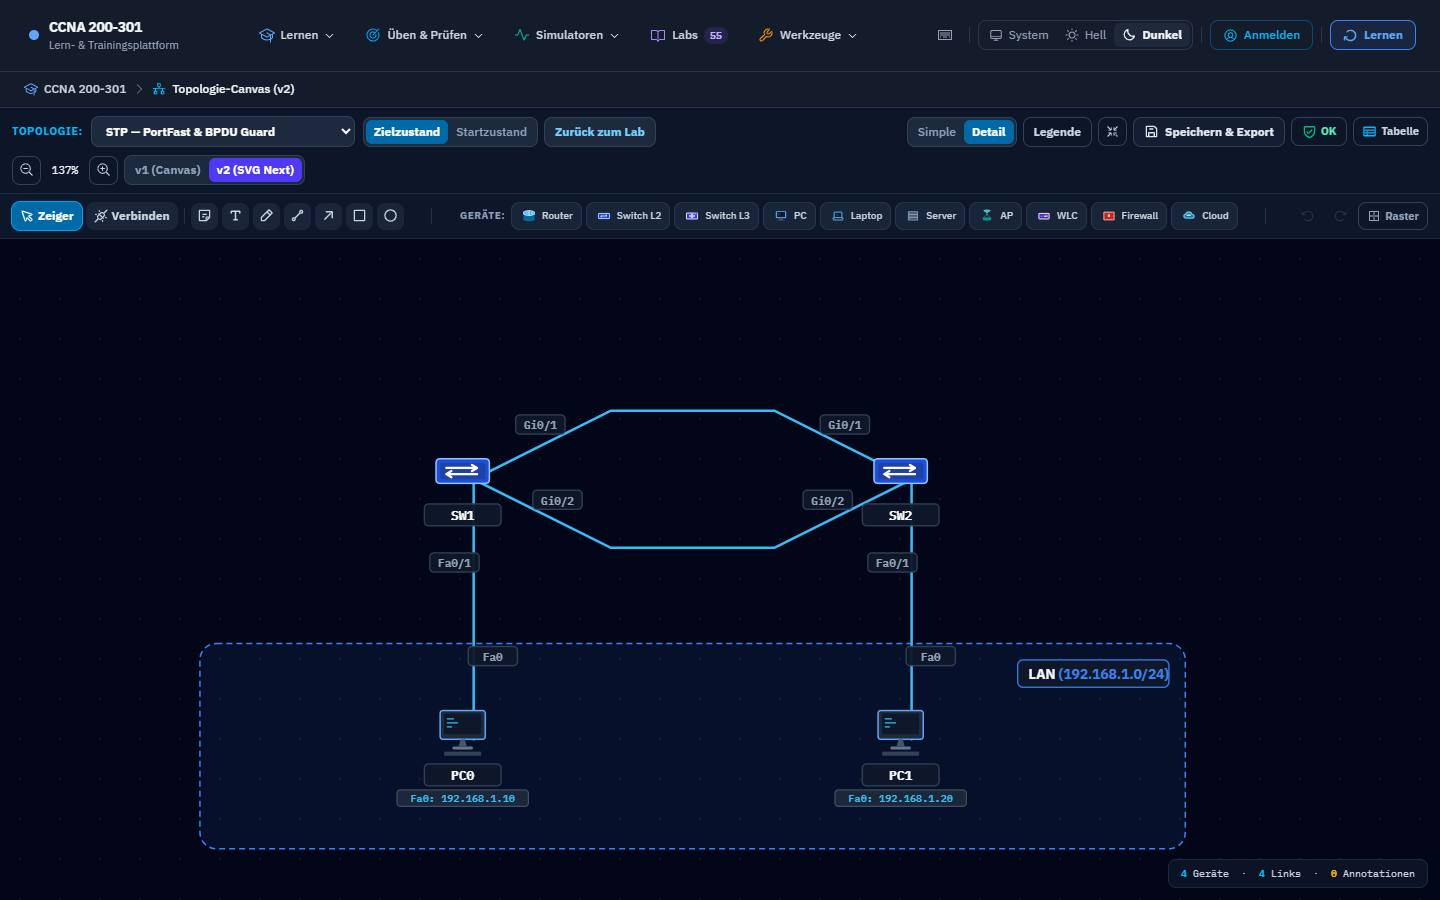
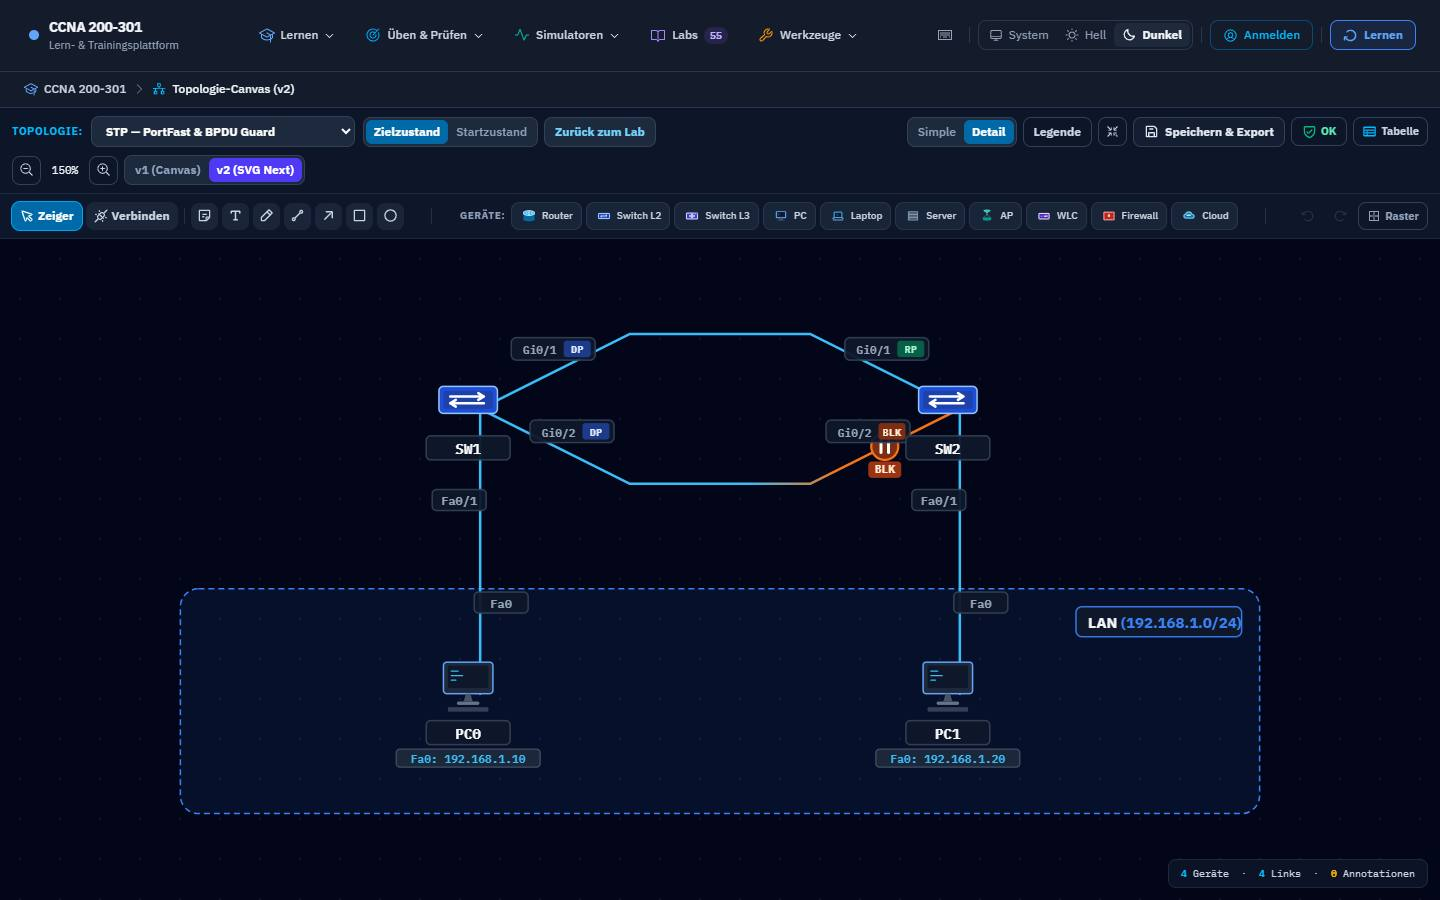
feat(labs): package 1 report, label text proposals, screenshots, stp roles in canvas

diff --git a/src/components/labs/lab-to-network.ts b/src/components/labs/lab-to-network.ts
@@ -17,6 +17,7 @@ import {
 } from "@/lib/topology/hardware-profiles";
 import type { LabScenario, LabTopologyData, LabTopologyDevice } from "./types";
 import { placeZoneBadge } from "./topology-geometry";
+import { computeStp } from "@/lib/topology/stp-calc";
 
 // ============================================================================
 // Lab-Topologie -> Netzwerk-Topologie (Canvas v2).
@@ -466,6 +467,25 @@ export function buildNetworkTopologyFromLab(
       labState: state,
     },
   };
+  // Spanning-Tree-Rollen anzeigen, wenn das Lab spanning-tree konfiguriert (Root-Wahl, Alternate-Port)
+  if (state === "target" && devices.some((d) => /^\s*spanning-tree/m.test(d.config?.labCli ?? ""))) {
+    const stp = computeStp(topology);
+    const roleOf = { Root: "RP", Desg: "DP", Altn: "BLK" } as const;
+    for (const bridge of stp.values()) {
+      for (const p of bridge.ports) {
+        const linked = links.some((l) => l.sourceInterfaceId === p.iface.id || l.targetInterfaceId === p.iface.id);
+        if (linked && links.some((l) => (l.sourceInterfaceId === p.iface.id || l.targetInterfaceId === p.iface.id) && stp.has(l.sourceDeviceId) && stp.has(l.targetDeviceId))) {
+          p.iface.portRole = roleOf[p.role];
+        }
+      }
+    }
+    for (const l of links) {
+      const ends = [l.sourceInterfaceId, l.targetInterfaceId];
+      const blocked = devices.some((d) => d.interfaces.some((i) => ends.includes(i.id) && i.portRole === "BLK"));
+      if (blocked) l.status = "stp-blocking";
+    }
+  }
+
   return { topology, problems };
 }
 

diff --git a/src/__tests__/components/lab-topologies-network.test.ts b/src/__tests__/components/lab-topologies-network.test.ts
@@ -195,6 +195,19 @@ describe("Lab stp: Spanning-Tree-Ergebnis folgt aus dem Lab (priority 4096 auf S
     expect(sw1.ports.every((p) => p.role === "Desg" && p.state === "FWD")).toBe(true);
   });
 
+  it("Rollen werden im Canvas angezeigt: SW2 Gi0/1 RP, Gi0/2 BLK, blockierter Link markiert", () => {
+    const sw2 = topology.devices.find((d) => d.id === "sw2")!;
+    expect(sw2.interfaces.find((i) => i.name === "Gi0/1")!.portRole).toBe("RP");
+    expect(sw2.interfaces.find((i) => i.name === "Gi0/2")!.portRole).toBe("BLK");
+    expect(topology.links.find((l) => l.id === "link-sw1-sw2-2")!.status).toBe("stp-blocking");
+    expect(topology.links.find((l) => l.id === "link-sw1-sw2-1")!.status).toBe("up");
+  });
+
+  it("andere Labs ohne spanning-tree-Konfiguration zeigen keine Rollen", () => {
+    const t = buildNetworkTopologyFromLab(lab("vtp-dtp"), CURATED_TOPOLOGIES["vtp-dtp"], "target").topology;
+    expect(t.devices.flatMap((d) => d.interfaces).some((i) => i.portRole)).toBe(false);
+  });
+
   it("SW2: Gi0/1 Root-Port, Gi0/2 Alternate/Blocking (Loop aufgelöst)", () => {
     const sw2 = stp.get("sw2")!;
     const byName = Object.fromEntries(sw2.ports.map((p) => [p.iface.name, `${p.role}/${p.state}`]));

diff --git a/src/components/canvas-v2/LinkRenderer.tsx b/src/components/canvas-v2/LinkRenderer.tsx
@@ -421,7 +421,7 @@ export const LinkRenderer: React.FC<LinkRendererProps> = ({
 
       {/* 3. STP-Blocking: Querbalken-Marker am Zielport */}
       {isStpBlocking && (
-        <g transform={`translate(${x2 - ux * 28}, ${y2 - uy * 28})`}>
+        <g transform={`translate(${x2 - tgtDirX * (hasBends ? 56 : 28)}, ${y2 - tgtDirY * (hasBends ? 56 : 28)})`}>
           {/* Blocking Querbalken || */}
           <circle cx="0" cy="0" r="9" fill="#7C2D12" stroke="#F97316" strokeWidth="1.5" />
           <line x1="-2.5" y1="-4" x2="-2.5" y2="4" stroke="#FFF" strokeWidth="2" strokeLinecap="round" />

diff --git a/src/components/canvas-v2/SvgTopologyRenderer.tsx b/src/components/canvas-v2/SvgTopologyRenderer.tsx
@@ -425,7 +425,8 @@ export const SvgTopologyRenderer: React.FC<SvgTopologyRendererProps> = ({
                 fontWeight="bold"
                 fontFamily="'IBM Plex Sans', sans-serif"
               >
-                {zone.name} <tspan fill={zone.color}>({zone.cidr})</tspan>
+                {zone.name}
+                {zone.cidr && <tspan fill={zone.color}> ({zone.cidr})</tspan>}
               </text>
             </g>
           </g>

diff --git a/docs/lab-topologien/BERICHT-PAKET-1.md b/docs/lab-topologien/BERICHT-PAKET-1.md
@@ -1,0 +1,88 @@
+# Lab-Topologien — Paket 1 (Layer 2): Bericht
+
+Branch `feature/lab-topologies` (von `main` @ `53875eb`). Nicht gepusht, nicht gemergt.
+Neue Topologien: **stp, vtp-dtp, etherchannel, ivr-svi**. Die vier Piloten (basic-ip, vlan-trunking, roas, ospf) laufen auf demselben Fundament.
+Lint 0 Fehler (48 Warnungen wie vorher), **681 Tests in 53 Dateien grün** (vorher 543 / 51), Build grün.
+
+## 1. Was neu ist (Fundament, gilt für alle späteren Pakete)
+
+| Baustein | Datei | Inhalt |
+|---|---|---|
+| Hardware-Profile | `src/lib/topology/hardware-profiles.ts` | 2911 mit HWIC-2T (`Gi0/0–0/2`, `Se0/0/0`, `Se0/0/1`), 2960-24TT, **3560-24PS** (Fa0/1–24, Gi0/1–2), 3650-24PS, PC-PT/Server-PT (`Fa0`). Die Standard-Interfaces neuer Router im Canvas heißen jetzt `Se0/0/0`/`Se0/0/1` (vorher `Se0/1/x`); Doku angepasst |
+| Topologie-Dateien | `src/components/labs/topologies/` | je Kategorie eine Datei (`layer2.ts`, `routing.ts`, `layer2-switching.ts`) plus `builders.ts`. `curated-topologies.ts` führt sie zusammen. Die Pilot-Daten sind unverändert verschoben (JSON-Vergleich vorher/nachher identisch), danach aber bewusst angepasst (Abschnitt 5) |
+| Konverter | `src/components/labs/lab-to-network.ts` | Lab → Netzwerk-Topologie (Canvas v2). Konfiguration wird **nur** aus den Befehlen des Labs gelesen (Hostname, VLANs, Access/Trunk, Channel-Groups, SVIs, `ip routing`, OSPF, STP-Priorität, Desktop-IPs). Zielzustand und Startzustand (ohne Konfiguration). Ungelesenes landet in `problems` |
+| CLI-Export | `getLabDeviceCli` | pro Router/Switch nur Befehle, ohne Prompt. Im Lab-Dialog (Kopieren / .txt je Gerät) und im Canvas-Inspektor |
+| Canvas-Integration | `LabScenariosDialog`, `CanvasV2Container`, `App.tsx` | Button „Topologie im Canvas öffnen“ im Lab; im Canvas Gruppe **„Unterrichts-Labs“** im Topologie-Menü, Umschalter **Zielzustand / Startzustand**, **„Zurück zum Lab“**. Lädt als neue Vorlage, überschreibt keine gespeicherten Topologien und ändert die gespeicherte Engine-Einstellung nicht |
+| Linienführung | `TopologyLink.bendPoints`, `LinkRenderer` | parallele Verbindungen (Loop, Bundle) mit Zwischenpunkten; Labels und STP-Marker folgen der Linie |
+| Zonen | `placeZoneBadge` | Zonen-Titel steht in der Ecke, in der er weder Linien noch Labels noch Geräte berührt (Lab-Diagramm und Canvas) |
+| STP im Canvas | Konverter | wenn das Lab `spanning-tree` konfiguriert: Port-Rollen RP/DP/BLK an den Links, blockierter Link markiert (berechnet aus Priorität/MAC/Kosten, siehe `stp-calc.ts`) |
+| Tests | `lab-topologies-network.test.ts`, `lab-topology-quality.test.ts`, `lab-topology-matches-lab-text.test.ts` | datengetrieben über **alle** Einträge in `CURATED_TOPOLOGIES`; neue Labs werden automatisch erfasst |
+| Screenshots | `scripts/e2e/lab-topology-screenshots.mjs` | Dark/Light × 1440/390 px × Detail/Simple, im Lab-Dialog und im Canvas; prüft außerdem Laden der Vorlage, Startzustand und den Rücksprung |
+
+### Was der Test je Lab prüft
+
+1. Schema gültig (`networkTopologySchema`), Kategorie `teaching-labs`, `labId`/`labState` gesetzt.
+2. Alle Interfaces (Links, Adressierungstabelle, Konfiguration) existieren im Hardware-Profil; kein Interface doppelt belegt.
+3. Jede Zeile der Verbindungsliste des Labs (`A Port ↔ B Port`, Ketten mit `→`) entspricht einem Link mit denselben Ports. Bekannte Widersprüche stehen in einer Ausnahmeliste (derzeit nur die zwei ospf-Zeilen).
+4. Jede IP/Maske der Adressierungstabelle stimmt mit den Befehlen überein (`ip address` bzw. Desktop-Konfiguration inkl. Gateway).
+5. Validierung (`validateTopology`) liefert genau die erwarteten Meldungen (derzeit überall keine).
+6. Startzustand: dieselben Geräte/Links, keine IPs, keine VLANs.
+7. CLI-Export: nicht leer, kein Prompt, identisch mit `config.labCli`.
+8. **Keine erfundenen IPs** in allen `show`-Ausgaben des Generators (jede IP muss zu einem Interface, einem Netz, einer Maske, einem Gateway oder einer im Lab konfigurierten Router-ID gehören); `show vlan brief` nennt nur VLANs des Labs.
+9. Layout: 0 überlappende Bounding-Boxes (Icons, Gerätenamen, Port-Labels, Subnetz-Labels), 0 sich kreuzende Linien, Tier-Ausrichtung, **10-px-Raster**, **Zonen-Titel liegen in der Zone und überdecken nichts**.
+10. Spezifisch: stp (Root SW1 mit Priorität 4096, SW2 Gi0/1 Root-Port, Gi0/2 Alternate), etherchannel (Po1 LACP, `show etherchannel summary`), ivr-svi (SVIs, `ip routing`, Routen), vtp-dtp (VLAN-Datenbank nur auf dem Server), ospf (DR/BDR aus der Konfiguration).
+
+## 2. Die vier Labs
+
+| Lab | Geräte | Links | Modell/Profil | Besonderheit |
+|---|---|---|---|---|
+| stp | 4 (2 SW, 2 PC) | 4 | 2960-24TT | zwei parallele Gi-Links (Loop), Root SW1 |
+| vtp-dtp | 5 (3 SW, 2 PC) | 4 | 2960-24TT | Trunks, VLAN 10 VERWALTUNG/20 TECHNIK, VTP-Rollen im Modelltext |
+| etherchannel | 4 | 4 | 2960-24TT | Fa0/1–2 als Port-channel 1 (LACP active), PCs an Fa0/3 |
+| ivr-svi | 3 (MLS1, 2 PC) | 2 | **3650-24PS** | SVIs `Vlan10`/`Vlan20` |
+
+## 3. Selbstprüfung je Lab (was noch nicht gut aussieht)
+
+**stp.** Gut: Schleife als symmetrisches Sechseck, Rollen im Canvas gut lesbar (SW1 DP/DP, SW2 RP/BLK, blockierter Link orange). Schwach: im Lab-Dialog ist das Diagramm bei 1440 px nur etwa 490 px breit, Port-Labels sind dort ca. 6 px hoch (gilt für alle Labs inkl. Pilot-Labs, Layout der Dialogspalte ist nicht Teil dieses Auftrags). „Root“ steht nur im Modelltext, nicht als eigenes Zeichen. Im Canvas steht das Modell nicht am Gerät.
+
+**vtp-dtp.** Gut: Kette mit Trunk-Labels, zwei VLAN-Zonen mit Netzadresse. Schwach: VLAN 20 TECHNIK steht nur in der Legende (kein Port im Lab). VTP-Rollen (Server/Client) sieht man nur im Lab-Diagramm. **Lab-Fehler:** `desirable` ↔ `trunk nonegotiate` (siehe Korrekturvorschläge), im Zielzustand zeigt SW1 deshalb keinen Trunk auf Gi0/1.
+
+**etherchannel.** Gut: gebündelte Links mit Beschriftung „Port-channel 1 · LACP active“, `show etherchannel summary` korrekt (`Po1(SU)`, beide `(P)`). Schwach: im Canvas fehlt die Port-channel-Beschriftung, die Zwischenpunkt-Linien ersetzen dort das Bündel-Symbol (Ellipse). Beide Links sind grün (EtherChannel), aber ohne Hinweis auf die Gruppe.
+
+**ivr-svi.** Gut: Dreiecksform, zwei VLAN-Zonen, SVIs in der Tabelle und im Canvas-Inspektor. Schwach: Die SVIs sind im Diagramm nicht am Gerät gezeichnet. Modell: Lab sagt „z. B. 3560“, die Ports sagen 3650 → Topologie folgt den Ports.
+
+**Alle.** Die Diagramme im Lab-Dialog sind klein (siehe oben). Im Canvas auf 390 px passt die Topologie, aber die Schrift ist dort sehr klein (Pinch-Zoom nötig).
+
+## 4. Gefundene Fehler und Korrekturen am Rand
+
+| Fund | Korrektur |
+|---|---|
+| Lab-Dialog bei 390 px: Detailbereich 481 px breit, Inhalt rechts abgeschnitten (auch bei den Piloten) | Detailbereich ohne Radix-ScrollArea (dessen innerer `display:table`-Wrapper breitete sich aus), Grid-Spalten `min-w-0` |
+| Canvas: `fitView` ignorierte Zonen und lief mit veralteter Container-Größe | Zonen eingerechnet; Einpassen nach dem Laden |
+| Canvas: Toolbar lief bei 390 px über | Auswahlzeile umbrechbar |
+| Canvas: Zonen-Titel zeigte leere Klammern `()` ohne Netzadresse | nur mit Adresse |
+
+## 5. Änderungen an den Piloten (inhaltlich unverändert, Layout angepasst)
+
+Meine neuen Prüfungen (10-px-Raster, Zonen-Titel) schlugen bei den Piloten an. Das Pilot-Layout hatte also Verstöße, die der bisherige Test nicht erfasste. Angepasst wurde **nur Gestaltung**:
+
+- Alle Koordinaten (Geräte, Zwischenpunkte, Zonen, Label-Positionen) auf das 10-px-Raster gerundet (z. B. `y: 65` → `70`).
+- vlan-trunking: Zonen-Titel gekürzt (`VLAN 10 · SALES · PC0 192.168.10.10` → `VLAN 10 · SALES`; die IPs stehen in der Tabelle). Die Titel waren breiter (268 px) als die Zonen (160 px).
+- ospf: LAN-Zonen breiter/höher (Titel passten nicht hinein), `viewBox` von 560 auf 620 Höhe.
+
+Adressen, Ports, Geräte, VLANs und Lab-Inhalte sind unverändert; alle bestehenden Pilot-Tests laufen.
+
+## 6. Screenshots
+
+`docs/lab-topologien/screenshots/<lab>/` — je Lab 17 Bilder (JPEG, ca. 4–6 MB insgesamt für vier Labs):
+`lab-{dark,light}-{1440,390}-{detail,simple}.jpg`, `canvas-{dark,light}-{1440,390}-{detail,simple}.jpg`, `canvas-dark-1440-startzustand.jpg`.
+Enthalten sind die vier neuen Labs und zur Regression die vier Piloten. Der Lauf prüft zusätzlich: Vorlage lädt (`lab:<id>`), Startzustand umschaltbar, „Zurück zum Lab“ öffnet das Lab. Ergebnis: 50 von 50.
+
+Selbst angesehen habe ich: stp (Canvas dark 1440/390, Lab dark 1440), vtp-dtp (Canvas dark/light, Lab dark/light 390), etherchannel (Canvas dark 1440), ivr-svi (Lab light 1440), ospf (Canvas dark 1440), vlan-trunking (Lab dark 1440). Die übrigen Bilder sind vom Skript erzeugt, aber nicht einzeln begutachtet.
+
+## 7. Offen / Entscheidungen
+
+1. Lab-Text-Korrekturen: `KORREKTURVORSCHLAEGE-LABTEXT.md` (Datei, Stelle, alt, neu). Besonders vtp-dtp (DTP) und ivr-svi (Modell).
+2. Das Diagramm im Lab-Dialog ist bei 1440 px klein. Vorschlag (nicht umgesetzt): die Topologie-Spalte breiter machen oder einen Vollbild/Zoom-Button ergänzen.
+3. Der Canvas zeigt keine Modelltexte (VTP-Rolle, „Root“). Vorschlag: Gerätenotiz aus `model` als zweite Zeile unter dem Namen.
+4. Paket 2 (Routing, 9 Labs + 2 Drills) wartet auf dein OK.

diff --git a/docs/lab-topologien/KORREKTURVORSCHLAEGE-LABTEXT.md b/docs/lab-topologien/KORREKTURVORSCHLAEGE-LABTEXT.md
@@ -1,0 +1,52 @@
+# Korrekturvorschläge für Lab-Texte (nur Vorschläge, nichts umgesetzt)
+
+Du entscheidest und änderst die Lab-Texte selbst oder gibst einzelne Änderungen frei. Zeilennummern beziehen sich auf den Stand von `feature/lab-topologies` (`src/components/labs/`). „Alt“ ist der heutige Text, „Neu“ ein Vorschlag. Ports und Adressen im neuen Text sind **Vorschläge von mir**, weil das Lab sie nicht nennt — bitte prüfen.
+
+## 1. dhcp-relay — services.tsx
+
+| Stelle | Alt | Neu | Begründung |
+|---|---|---|---|
+| Zeile 254 (`topology.devices`) | `{ type: "pc", label: "Clients Rot/Blau/Gelb", count: 3 }` | `{ type: "pc", label: "Client Rot / Client Blau", count: 2 }` | Konfiguriert und in den Schritten verwendet werden nur `Client Rot` und `Client Blau`. „Gelb“ ist das Server-VLAN 71 (`name Gelb`), kein Client. |
+| Zeile 260 (`connections`) | `"Client-Rot → SW1 Fa0/1 (VLAN 51) · Client-Blau → SW1 Fa0/11 (VLAN 61)"` | unverändert, falls beide Clients an SW1 hängen. Wenn Clients an SW2 gedacht sind: zusätzlich `"Client-Rot (2. Standort) → SW2 Fa0/1 (VLAN 51)"` | SW2 konfiguriert `Fa0/1-10` als VLAN 51 (Zeile 349), aber kein Gerät nennt einen Anschluss an SW2. Entweder SW2-Ports streichen oder ein Gerät ergänzen. |
+
+## 2. co-acl-nat-isp — security.tsx
+
+| Stelle | Alt | Neu | Begründung |
+|---|---|---|---|
+| Zeile 1902 (nach `ISP-SW`) | (fehlt) | `{ type: "switch", label: "SW1 (CO-1 LAN) / SW2 (CO-2 LAN)", count: 2 },` | Die Verbindungszeilen 1911–1912 nennen `SW1` und `SW2`, die Geräteliste nicht. |
+| Zeilen 1899–1901 | `ETH0/0`, `ETH0/1` | beibehalten, aber im `description` ergänzen: „Interface-Namen im Format `Ethernet0/0` (IOL/GNS3-Router), nicht Packet-Tracer-`GigabitEthernet`“ | Die Namen sind nicht Packet-Tracer-Standard. Das Lab-Topologie-Profil „Ethernet“ folgt dem Lab. Wenn das Lab in Packet Tracer gebaut werden soll, müssten Ports umbenannt werden. |
+
+## 3. hsrp — services.tsx
+
+| Stelle | Alt | Neu | Begründung |
+|---|---|---|---|
+| Zeile 1997 (`devices`) | `{ type: "router", label: "R1, R2", count: 2 }, { type: "pc", label: "PC0", count: 1 }` | zusätzlich `{ type: "switch", label: "SW1 (gemeinsames LAN)", count: 1 }` | R1, R2 und PC0 teilen das Segment 192.168.1.0/24; das geht nur über einen Verteiler. |
+| Zeilen 2001–2004 (`connections`) | `"R1 Gi0/0 — 192.168.1.2/24 (HSRP Active, Priority 110)"`, `"R2 Gi0/0 — 192.168.1.3/24 (HSRP Standby, Priority 100)"`, `"PC0 → gemeinsames LAN 192.168.1.0/24"` | `"R1 Gi0/0 (192.168.1.2/24, HSRP Active, Priority 110) ↔ SW1 Fa0/1"`, `"R2 Gi0/0 (192.168.1.3/24, HSRP Standby, Priority 100) ↔ SW1 Fa0/2"`, `"PC0 → SW1 Fa0/3 (192.168.1.0/24)"` | Konkrete Ports als Vorschlag. |
+
+## 4. acl-extended — security.tsx
+
+| Stelle | Alt | Neu | Begründung |
+|---|---|---|---|
+| Zeilen 793–797 | `devices`: R1, `PC0 / PC1` (2), Web-Server; `connections`: `"PC0 / PC1 → R1 Gi0/0"`, `"R1 Gi0/1 → Web-Server"` | zusätzlich `{ type: "switch", label: "SW1 (LAN 192.168.1.0/24)", count: 1 }`; `connections`: `"R1 Gi0/0 ↔ SW1 Gi0/1"`, `"PC0 → SW1 Fa0/1"`, `"PC1 → SW1 Fa0/2"`, `"R1 Gi0/1 → Web-Server (192.168.2.100)"` | Beide PCs liegen in 192.168.1.0/24 (`192.168.1.10`, `.20`) und hängen laut Text am selben Port `Gi0/0`; dafür fehlt der Switch. |
+| Zeile 798 (`hint`) | `"Gleiche Topologie wie Standard-ACL. Extended ACL am Quell-Interface (Gi0/0 in)."` | `"Ähnliche Topologie wie die Standard-ACL, aber beide PCs liegen im selben Subnetz am Switch. Extended ACL am Quell-Interface (Gi0/0 in)."` | Die Standard-ACL hat drei getrennte Router-Ports (Gi0/0, Gi0/1, Gi0/2 mit PC0, PC1, Server), die Extended-ACL zwei. Die Topologien sind nicht gleich. |
+
+## 5. ntp-syslog-snmp — services.tsx
+
+| Stelle | Alt | Neu | Begründung |
+|---|---|---|---|
+| Zeilen 1822–1827 | `devices`: `{ type: "server", label: "NTP, Syslog, SNMP-Manager", count: 3 }`; `connections`: `"SW1 Gi0/1 → Server-VLAN 99 (10.0.0.0/24)"` | zusätzlich `{ type: "switch", label: "SW-Server (Server-VLAN 99)", count: 1 }`; `connections`: `"SW1 Gi0/1 ↔ SW-Server Gi0/1 (VLAN 99, 10.0.0.0/24)"`, `"NTP-Server (10.0.0.10) → SW-Server Fa0/1"`, `"Syslog-Server (10.0.0.20) → SW-Server Fa0/2"`, `"SNMP-Manager (10.0.0.30) → SW-Server Fa0/3"` | Die `description` (Zeile 1823) nennt die drei Server mit Adressen (`.10`, `.20`, `.30`) im Segment 10.0.0.0/24; drei Server an einem Port von SW1 gehen nur über einen Verteiler. Das ist kein Widerspruch, sondern eine fehlende Angabe. |
+
+## 6. aaa-radius-tacacs — kein Widerspruch
+
+Das Lab verortet den RADIUS-Server **nicht** ausdrücklich im Management-Netz: Die Zeile 1713 sagt nur `"SW1 Mgmt → RADIUS-Server (10.0.0.50)"`, die Management-SVI hat `192.168.1.254/24`. Die Adresse `10.0.0.50` steht nur in der RADIUS-Konfiguration (Zeile 1766). Es gibt keinen Satz, der behauptet, beide lägen im selben Netz.
+
+Offen bleibt nur, **wie SW1 den Server erreicht** (kein Gateway, keine Route, kein Port). Optionaler Hinweis (nicht nötig, wenn das Lab bewusst ohne erreichbaren Server arbeitet — Zeile 1837 sagt genau das): in `connections` die Zeile `"SW1 Mgmt → RADIUS-Server (10.0.0.50)"` ändern in `"SW1 Mgmt → RADIUS-Server (10.0.0.50) — im Lab nicht erreichbar, der lokale Fallback greift"`.
+
+## 7. Zusätzliche Befunde beim Aufbau der Topologien (Paket 1)
+
+| Lab / Datei | Stelle | Alt | Neu | Begründung |
+|---|---|---|---|---|
+| ivr-svi — layer2.tsx | Zeile 1460 | `"MLS1 (Layer-3, z. B. 3560)"` | `"MLS1 (Layer-3, z. B. 3650)"` | Die Befehle verwenden `gi1/0/1` und `gi1/0/2`. Das ist das Schema der 3650 (der 3560 hat `Fa0/x`/`Gi0/x`). Die Topologie folgt der Konfiguration (3650-24PS). |
+| vtp-dtp — layer2.tsx | Zeile 648 (SW2) | `interface range gi0/1 - 2\nswitchport mode trunk\nswitchport nonegotiate` | `interface gi0/1\nswitchport mode trunk\ninterface gi0/2\nswitchport mode trunk\nswitchport nonegotiate` (Erklärung zu Zeile 648 entsprechend anpassen) | SW1 steht auf `switchport mode dynamic desirable` (Zeile 604), SW2 auf `trunk` **mit** `nonegotiate`. Ein `nonegotiate`-Port sendet keine DTP-Frames, `desirable` bekommt keine Antwort und bleibt Access: der Trunk SW1–SW2 kommt nach Cisco-DTP-Verhalten nicht zustande, VTP synchronisiert dann nicht. Bitte in Packet Tracer gegenprüfen. Gi0/2 (zu SW3) bleibt statisch mit `nonegotiate`. |
+
+Die Topologie zeichnet beide Verbindungen als Trunk (wie die Verbindungsliste des Labs sagt). Im Zielzustand zeigt `show interfaces trunk` auf SW1 daher **keinen** Trunk für Gi0/1 — das spiegelt die Lab-Konfiguration ehrlich wider.
